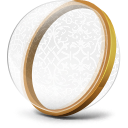
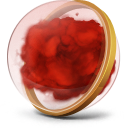
Added toggle button. Added message passing code.

diff --git a/js/background.js b/js/background.js
@@ -1,24 +1,48 @@
+var IS_ON = false;
 
-
-chrome.tabs.onUpdated.addListener( function (tabId, changeInfo, tab) {
-    if (changeInfo.status == 'complete' && tab.active) {
-
-        chrome.tabs.getSelected(null, function(tab) {
-            tabUrl = tab.url;
+chrome.tabs.onUpdated.addListener(function (tabId, changeInfo, tab) {
+    if (IS_ON && changeInfo.status == 'complete' && tab.active) {
+        var allLinks = document.links;
+        for (var i = 0; i < allLinks.length; i++) {
+            console.log(allLinks[i].href);
+            alert(allLinks[i].href);
+        }
+        chrome.tabs.getSelected(null, function (tab) {
             alert(tab.url);
         });
 
     }
 });
 
-chrome.runtime.onInstalled.addListener(function(details) {
-    //To add a new right click option
-    // chrome.contextMenus.create({
-    //     "id": "sampleContextMenu",
-    //     "title": "Sample Context Menu",
-    //     "contexts": ["selection"]
-    // });
+// chrome.runtime.onInstalled.addListener(function (details) {
+//     //To add a new right click option
+//     // chrome.contextMenus.create({
+//     //     "id": "sampleContextMenu",
+//     //     "title": "Sample Context Menu",
+//     //     "contexts": ["selection"]
+//     // });
+//
+//
+// });
 
+// Start our listener
+chrome.runtime.onMessage.addListener(function(request, sender, sendResponse) {
+    console.log("back recieved");
+    switch (request.type)
+    {
+        case 'set_val':
+            console.log(sender.tab ?
+                "from a content script:" + sender.tab.url :
+                "from the extension");
 
+            console.log(request.data);
+            IS_ON = request.data;
+            sendResponse({result: 'success'});
+            break;
+    }
 });
 
+// Run our script as soon as the document's DOM is ready.
+document.addEventListener('DOMContentLoaded', function () {
+    console.log("Background loaded");
+});

diff --git a/js/extension_popup.js b/js/extension_popup.js
@@ -1,5 +1,44 @@
-let btn = document.getElementById('start');
+var IS_ON = false;
 
-btn.addEventListener('click', () => {
-    alert("It's loaded!");
+document.addEventListener("DOMContentLoaded", function () {
+    console.log("Popup loaded");
+    var btn = document.getElementById('switch');
+    btn.addEventListener('click', () => {
+        console.log("Toggle pressed");
+        if (btn.checked) {
+            chrome.browserAction.setIcon({path: "icon/remembrallon_128x128.png"});
+            IS_ON = true;
+        } else {
+            chrome.browserAction.setIcon({path: "icon/remembralloff_128x128.png"});
+            IS_ON = false;
+        }
+        chrome.runtime.sendMessage({type: "set_val", data: IS_ON},function(response) {
+            console.log(response.result);
+        });
+    });
+    chrome.runtime.sendMessage({type: "set_val", data: IS_ON},function(response) {
+        console.log(response.result);
+    });
 });
+
+
+//
+// // Add listener to receive messages from background page
+// chrome.extension.onMessage.addListener(function(request, sender, sendResponse) {
+//     switch (request.type)
+//     {
+//         case 'get_val':
+//             console.log("POPUP");
+//             chrome.runtime.sendMessage({type: "set_val", data: IS_ON},function(response) {
+//                 console.log(response.result);
+//             });
+//             break;
+//     }
+// });
+
+
+// chrome.tabs.query({active: true, currentWindow: true}, function(tabs) {
+//     chrome.tabs.sendMessage(tabs[0].id, {type: 'set_val', data: IS_ON}, function(response) {
+//         console.log(response.result);
+//     });
+// });

diff --git a/extension_popup.html b/extension_popup.html
@@ -2,18 +2,23 @@
 <html lang="en">
 <head>
     <meta charset="UTF-8">
-    <title>Rememberall Extension</title>
+    <title>Remembrall Extension</title>
+    <link crossorigin="anonymous" href="https://stackpath.bootstrapcdn.com/bootstrap/4.1.3/css/bootstrap.min.css"
+          integrity="sha384-MCw98/SFnGE8fJT3GXwEOngsV7Zt27NXFoaoApmYm81iuXoPkFOJwJ8ERdknLPMO" rel="stylesheet">
+    <script src="js/extension_popup.js"></script>
 </head>
+
 <body>
 
 <div class="container" style="width: 400px;display: flex;flex-direction: column;justify-content: center; margin: 10px">
-    <h2 style="text-align: center;color: #89b4c7">Rememberall - Password manager with hightened senses</h2>
+    <h2 style="text-align: center;color: #89b4c7">Remembrall - Password manager with hightened senses</h2>
     <h4 style="text-align: center">A a password manager that warns user for password reuse, phishing attacks, and
         malicious links.</h4>
-    <button id="start" style="background-color: #89b4c7">Do nothing</button>
+    <label class="switch">
+        <input type="checkbox" id = "switch">Toggle remembrall
+        <span class="slider"></span>
+    </label>
 </div>
-
-<script src="js/extension_popup.js"></script>
 
 </body>
 </html>

diff --git a/css/extension_popup.css b/css/extension_popup.css
@@ -1,0 +1,60 @@
+
+.switch {
+    position: relative;
+    display: inline-block;
+    width: 60px;
+    height: 34px;
+}
+
+.switch input {
+    opacity: 0;
+    width: 0;
+    height: 0;
+}
+
+.slider {
+    position: absolute;
+    cursor: pointer;
+    top: 0;
+    left: 0;
+    right: 0;
+    bottom: 0;
+    background-color: #ccc;
+    -webkit-transition: .4s;
+    transition: .4s;
+}
+
+.slider:before {
+    position: absolute;
+    content: "";
+    height: 26px;
+    width: 26px;
+    left: 4px;
+    bottom: 4px;
+    background-color: white;
+    -webkit-transition: .4s;
+    transition: .4s;
+}
+
+input:checked + .slider {
+    background-color: #2196F3;
+}
+
+input:focus + .slider {
+    box-shadow: 0 0 1px #2196F3;
+}
+
+input:checked + .slider:before {
+    -webkit-transform: translateX(26px);
+    -ms-transform: translateX(26px);
+    transform: translateX(26px);
+}
+
+/* Rounded sliders */
+.slider.round {
+    border-radius: 34px;
+}
+
+.slider.round:before {
+    border-radius: 50%;
+}

diff --git a/options.html b/options.html
@@ -4,12 +4,12 @@
 <script src="js/options.js"></script>
 <body>
 <label>
-    <input id="useplugin" type="checkbox">
+    <input class="settings" id="useplugin" type="checkbox">
     Test Checkbox
 </label>
 
-<div id="status"></div>
-<button id="save" onclick="save_options()">Save</button>
+<div class="settings" id="status"></div>
+<button class="settings" id="save" onclick="save_options()">Save</button>
 
 
 </body>

diff --git a/README.md b/README.md
@@ -1,4 +1,4 @@
-# rememberall
+# remembrall
 **Chrome extension for a password manager that warns user for password reuse, phishing attacks, and malicious links.**
 
 ## Getting Started
